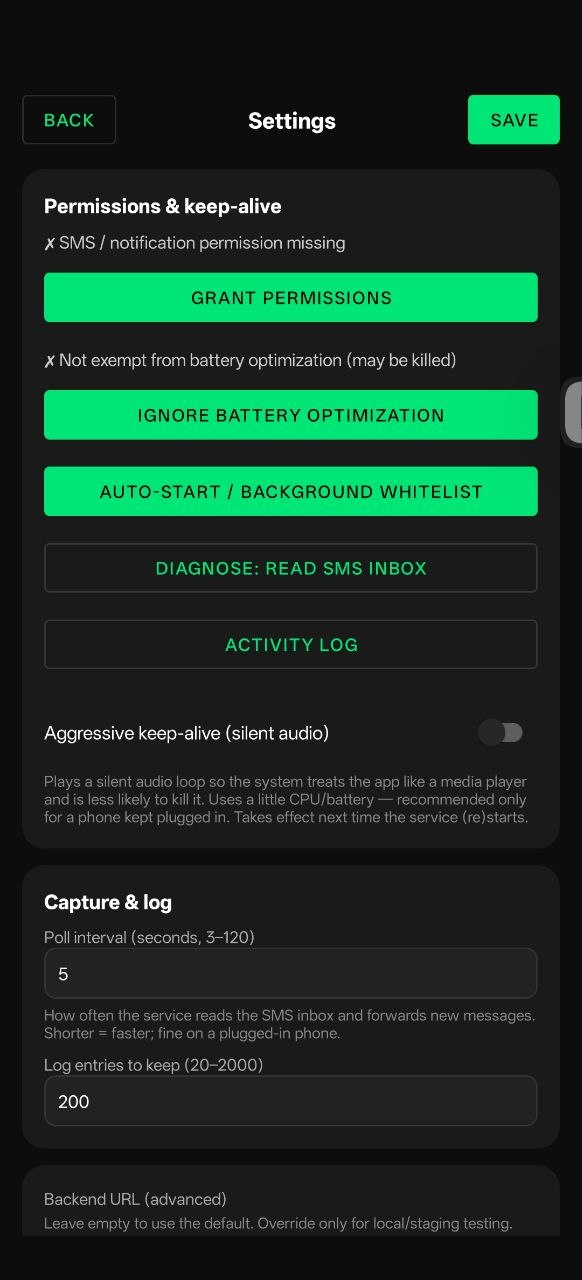
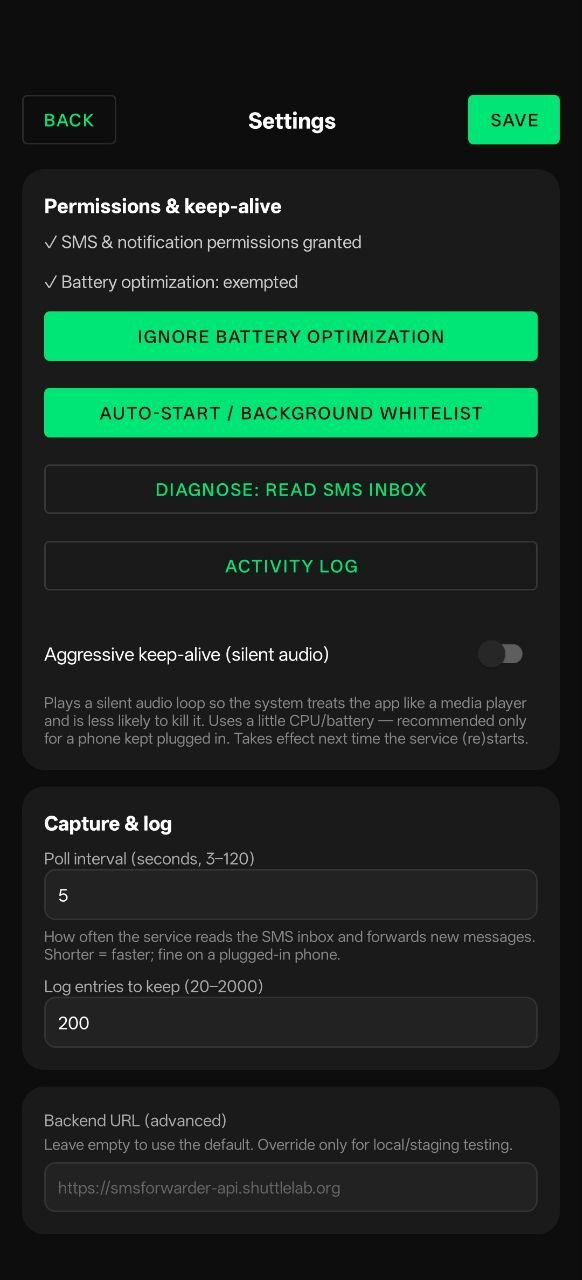
Reposition copy: ready-to-use, ShuttleLab-operated backend (drop self-hosting framing); wire hero screenshot

diff --git a/app/[locale]/forward-sms-to-telegram/page.tsx b/app/[locale]/forward-sms-to-telegram/page.tsx
@@ -43,9 +43,9 @@ type Content = {
 const EN: Content = {
   title: "Forward SMS to Telegram on Android — Receive Texts Remotely | SMS Forwarder",
   metaDesc:
-    "Automatically forward incoming SMS to your Telegram. SMS Forwarder is a free, self-hosted Android app — leave a phone plugged in at home and get verification codes and alerts anywhere.",
+    "Automatically forward incoming SMS to your Telegram. SMS Forwarder is a free, ready-to-use Android app — leave a phone plugged in at home and get verification codes and alerts anywhere.",
   h1: "Forward SMS to Telegram on Android: receive your texts anywhere",
-  lead: "SMS Forwarder is a free Android app that automatically forwards the text messages your phone receives to your Telegram. It uploads each SMS to your own self-hosted backend, which relays it to your Telegram and then forgets it. Leave a phone plugged in at home with your SIM, and every verification code, bank alert, or carrier message reaches you wherever you are — no roaming, no carrier forwarding fees.",
+  lead: "SMS Forwarder is a free Android app that automatically forwards the text messages your phone receives to your Telegram. It uploads each SMS to the SMS Forwarder service, which relays it to your Telegram and then forgets it — there's no server to set up, the app ships ready to connect. Leave a phone plugged in at home with your SIM, and every verification code, bank alert, or carrier message reaches you wherever you are — no roaming, no carrier forwarding fees.",
   whyH2: "Why forward SMS to Telegram?",
   whyParas: [
     "Plenty of accounts still send one-time codes and alerts by SMS to a specific number. If that SIM lives in a phone at home, in a second device, or on a number you keep for banking, you can't read those texts while you're out — and roaming or swapping SIMs is a hassle.",
@@ -53,22 +53,21 @@ const EN: Content = {
     "This is ideal for keeping an old number alive, receiving codes for a home-country SIM while abroad, or funneling a business/shared line's alerts to a place the whole team can see.",
   ],
   howH2: "How SMS Forwarder delivers your texts",
-  howIntro: "The app is a thin client — it captures SMS and hands them to your backend, which does the routing:",
+  howIntro: "The app is a thin client — it captures SMS and hands them to the SMS Forwarder backend, which does the routing:",
   howPoints: [
     "Capture — a broadcast receiver plus a foreground-service poll of the SMS inbox catch every new message, using a monotonic id cursor so nothing is skipped, even on ROMs that withhold SMS broadcasts.",
-    "Upload — each message is sent to your backend over HTTPS from the live foreground service (not a background scheduler the OS throttles), and retried until it succeeds.",
+    "Upload — each message is sent to the SMS Forwarder backend over HTTPS from the live foreground service (not a background scheduler the OS throttles), and retried until it succeeds.",
     "Relay — the backend delivers to your Telegram via a shared bot, then deletes the message body; a server-side idempotency key means a text is never delivered twice.",
   ],
-  boundaryH2: "Self-hosted and relay-and-forget",
+  boundaryH2: "Relay-and-forget",
   boundaryParas: [
-    "SMS Forwarder holds no Telegram tokens in the app and routes nothing through a cloud service of ours. You run the small companion backend yourself (a single Go binary plus SQLite); message bodies live there only until delivered, then they are deleted, leaving just a metadata log for you as the operator.",
-    "Signing in uses a per-device token you can revoke at any time, and your Telegram binding is tied to your account, so a message can only ever reach you. Because routing lives on the server, new channels can be added there without rebuilding or reinstalling the app.",
+    "SMS Forwarder holds no Telegram tokens in the app. The SMS Forwarder backend — operated by ShuttleLab — relays each message and then deletes the body; message bodies live there only until delivered, then they are deleted, leaving just a metadata log (result, time, sender).",
+    "Signing in uses a per-device token you can revoke at any time, and your Telegram binding is tied to your account, so a message can only ever reach you. Because routing lives on the server, new channels can be added there without rebuilding or reinstalling the app. Both the app and the backend are open source.",
   ],
   setupH2: "How to set up SMS forwarding to Telegram",
   setupSteps: [
-    { title: "Run the backend", desc: "Deploy the companion server (smsforwarder-api) — a single Go binary with SQLite — or point the app at a shared instance." },
     { title: "Install the app", desc: "Download the APK from GitHub and install it on the phone that holds the SIM (Android 8.0 / API 26 or later). On Huawei, disable Pure Mode first." },
-    { title: "Sign in & bind Telegram", desc: "Create an account, then tap Bind Telegram, open the bot, and press Start. Your chat is now linked — no tokens to copy." },
+    { title: "Sign in & bind Telegram", desc: "Create an account, then tap Bind Telegram, open the bot, and press Start. Your chat is now linked — no tokens to copy, and no server to configure." },
     { title: "Start the service & keep it alive", desc: "Grant SMS + notification permissions and tap Start. Allow battery-optimization exemption and auto-start so the OS keeps it running on a plugged-in phone." },
   ],
   signsH2: "What it handles for you",
@@ -79,10 +78,10 @@ const EN: Content = {
   ],
   faqH2: "Frequently asked questions",
   faqs: [
-    { q: "Does it need my own server?", a: "Yes — SMS Forwarder is a thin client and needs a backend to relay messages. You can self-host the companion server (a single Go binary + SQLite, no external dependencies) or connect to a shared instance. Self-hosting keeps the whole path under your control and retains no message bodies after delivery." },
+    { q: "Do I need to set up a server?", a: "No — the SMS Forwarder backend is already running, operated by ShuttleLab. Install the app, sign in, and bind Telegram; there is nothing to deploy and no token to paste. The app and backend are open source." },
     { q: "Which apps can it forward to?", a: "Telegram, via a shared bot. Because channel routing lives on the backend rather than in the app, more destinations can be added server-side without rebuilding the app. Binding Telegram is one tap — open the bot and press Start; no tokens to copy on the phone." },
     { q: "Will it keep working on a Huawei / HarmonyOS phone?", a: "Yes. On aggressive Chinese ROMs the system often withholds SMS broadcasts from third-party apps and throttles background work. SMS Forwarder captures with both a broadcast receiver and a foreground-service poll of the SMS inbox, and uploads directly from the live service. Add it to the auto-start whitelist and battery-optimization exemption for best results." },
-    { q: "Are my messages stored anywhere?", a: "The app reads incoming SMS only to forward them. On the backend it is relay-and-forget: a message body lives only until delivered, then it is deleted, leaving just a metadata log (result, time, sender). There are no ads, no analytics, and no tracking SDKs. If you self-host, no third party is ever in the loop." },
+    { q: "Are my messages stored anywhere?", a: "The app reads incoming SMS only to forward them. On the backend it is relay-and-forget: a message body lives only until delivered, then it is deleted, leaving just a metadata log (result, time, sender). The backend is operated by ShuttleLab and keeps no message bodies after delivery. There are no ads, no analytics, and no tracking SDKs." },
     { q: "Is it free? Where do I get it?", a: "SMS Forwarder is free, for personal use — no ads, no in-app purchases. Download the APK from GitHub and install it directly. The Android client and the backend server are separate repositories." },
   ],
   getH2: "Get SMS Forwarder",
@@ -94,9 +93,9 @@ const EN: Content = {
 const ZH: Content = {
   title: "安卓短信转发到 Telegram——随处接收短信 | 短信转发",
   metaDesc:
-    "自动把收到的短信转发到你的 Telegram。短信转发是一款免费、自建的安卓应用——把手机插电放家里，验证码和通知随时随地都能收到。",
+    "自动把收到的短信转发到你的 Telegram。短信转发是一款免费、开箱即用的安卓应用——把手机插电放家里，验证码和通知随时随地都能收到。",
   h1: "安卓短信转发到 Telegram：随处接收你的短信",
-  lead: "短信转发是一款免费的安卓应用，自动把手机收到的短信转发到你的 Telegram。它把每条短信上传到你自己的自建后端，由后端转发到 Telegram 后即删。把插着 SIM 卡的手机放家里插电常开，验证码、银行提醒、运营商短信就能随时随地找到你——不用漫游，也不用运营商的短信转移服务。",
+  lead: "短信转发是一款免费的安卓应用，自动把手机收到的短信转发到你的 Telegram。它把每条短信上传到短信转发服务，由服务转发到 Telegram 后即删——无需搭建服务器，App 出厂即可连接。把插着 SIM 卡的手机放家里插电常开，验证码、银行提醒、运营商短信就能随时随地找到你——不用漫游，也不用运营商的短信转移服务。",
   whyH2: "为什么要把短信转发到 Telegram？",
   whyParas: [
     "很多账户至今仍把一次性验证码和通知用短信发到某个特定号码。如果那张 SIM 在家里的手机、一台备用机、或你专门留着收银行短信的号码上，你人在外面就读不到——而漫游或换卡都很麻烦。",
@@ -104,22 +103,21 @@ const ZH: Content = {
     "这非常适合：让旧号码继续可用、人在国外仍收发往国内 SIM 的验证码、或把公司/共享号码的通知汇集到全team 都能看到的地方。",
   ],
   howH2: "短信转发如何送达你的短信",
-  howIntro: "App 是瘦客户端——它负责捕获短信、交给你的后端，由后端做路由：",
+  howIntro: "App 是瘦客户端——它负责捕获短信、交给短信转发后端，由后端做路由：",
   howPoints: [
     "捕获——短信广播接收器 + 前台服务轮询短信库双管齐下，用单调递增的 id 游标抓住每条新消息；即使在不下发短信广播的 ROM 上也不漏。",
-    "上传——每条消息由活着的前台服务经 HTTPS 发往你的后端（而非会被系统限流的后台调度），并一直重试到成功。",
+    "上传——每条消息由活着的前台服务经 HTTPS 发往短信转发后端（而非会被系统限流的后台调度），并一直重试到成功。",
     "转发——后端通过共享 Bot 投递到你的 Telegram，随后删除正文；服务端幂等键保证同一条短信绝不重复投递。",
   ],
-  boundaryH2: "自建 · 转发即焚",
+  boundaryH2: "转发即焚",
   boundaryParas: [
-    "短信转发在 App 内不保存任何 Telegram token，也不经由我们的云服务路由。小巧的配套后端（单个 Go 二进制 + SQLite）由你自己运行；正文只在投递完成前短暂驻留其中，投完即删，只给你（运营方）留一份元数据日志。",
-    "登录使用可随时吊销的按设备令牌，你的 Telegram 绑定与账号关联，因此消息只会发给你。由于路由在服务端，以后加新渠道可在那里完成，无需重新编译或重装 App。",
+    "短信转发在 App 内不保存任何 Telegram token。短信转发后端由 ShuttleLab 运营，负责转发每条消息、随后删除正文；正文只在投递完成前短暂驻留其中，投完即删，只留一份元数据日志（结果、时间、发件人）。",
+    "登录使用可随时吊销的按设备令牌，你的 Telegram 绑定与账号关联，因此消息只会发给你。由于路由在服务端，以后加新渠道可在那里完成，无需重新编译或重装 App。App 与后端均为开源。",
   ],
   setupH2: "如何设置短信转发到 Telegram",
   setupSteps: [
-    { title: "运行后端", desc: "部署配套服务器（smsforwarder-api）——单个 Go 二进制 + SQLite——或让 App 指向一个共享实例。" },
     { title: "安装 App", desc: "从 GitHub 下载 APK，装到插着 SIM 卡的那台手机上（Android 8.0 / API 26 及以上）。华为请先关闭「纯净模式」。" },
-    { title: "登录并绑定 Telegram", desc: "注册账号，然后点「绑定 Telegram」，打开 Bot 点 Start。会话即绑定——无需复制任何 token。" },
+    { title: "登录并绑定 Telegram", desc: "注册账号，然后点「绑定 Telegram」，打开 Bot 点 Start。会话即绑定——无需复制任何 token，也不用配置服务器。" },
     { title: "启动服务并保活", desc: "授予短信 + 通知权限并点「启动」。开启电池优化豁免与自启动，让系统在插电常开的手机上一直保持它运行。" },
   ],
   signsH2: "它帮你处理好的细节",
@@ -130,10 +128,10 @@ const ZH: Content = {
   ],
   faqH2: "常见问题",
   faqs: [
-    { q: "需要自己的服务器吗？", a: "需要——短信转发是瘦客户端，需要一个后端来中转消息。你可以自建配套服务器（单个 Go 二进制 + SQLite，无外部依赖），也可以连到共享实例。自建让整条链路都在你掌控之中，且投递后不保留任何正文。" },
+    { q: "需要自己搭建服务器吗？", a: "不需要——短信转发的后端已在运行、由 ShuttleLab 运营。装上 App、登录、绑定 Telegram 即可，无需部署任何东西、也不用粘贴 token。App 与后端均为开源。" },
     { q: "能转发到哪些 App？", a: "Telegram，通过一个共享 Bot。由于渠道路由在后端而非 App 里，以后要加更多目的地可以在服务端完成，无需重新编译 App。绑定 Telegram 只需一步——打开 Bot 点 Start，手机上不用复制任何 token。" },
     { q: "在华为 / HarmonyOS 上能一直用吗？", a: "能。国产严苛 ROM 常常不给第三方 App 下发短信广播、并限流后台任务。短信转发同时用广播接收器和前台服务轮询短信库来捕获，并直接从活着的前台服务上传。把它加入自启动白名单并豁免电池优化，效果最佳。" },
-    { q: "我的消息会被存起来吗？", a: "App 读取来信仅为转发。后端是「转发即焚」：正文只在投递完成前保留，之后即删，只留一份元数据日志（结果、时间、发件人）。没有广告、没有统计、没有追踪 SDK。若你自建，链路里不会有任何第三方。" },
+    { q: "我的消息会被存起来吗？", a: "App 读取来信仅为转发。后端是「转发即焚」：正文只在投递完成前保留，之后即删，只留一份元数据日志（结果、时间、发件人）。后端由 ShuttleLab 运营，投递后不保留任何正文。没有广告、没有统计、没有追踪 SDK。" },
     { q: "免费吗？在哪下载？", a: "短信转发免费、供个人使用——无广告、无内购。从 GitHub 下载 APK 直接安装即可。安卓客户端与后端服务器是两个独立的仓库。" },
   ],
   getH2: "获取短信转发",

diff --git a/components/seo-faq.tsx b/components/seo-faq.tsx
@@ -33,7 +33,7 @@ export const COMPARISON = {
     heading: "SMS Forwarder vs. other ways to get your texts remotely",
     columns: ["", "SMS Forwarder", "Carrier SMS forwarding", "Cloud SMS-forward apps"],
     rows: [
-      ["Self-hosted — you run the server", "✓", "— (carrier)", "— (their cloud)"],
+      ["Open source (app + backend)", "✓", "n/a", "usually closed"],
       ["Message bodies not retained (relay-and-forget)", "✓", "n/a", "often stored"],
       ["No channel tokens stored in the app", "✓", "n/a", "varies"],
       ["Delivers to Telegram", "✓", "— (only another number)", "✓"],
@@ -46,7 +46,7 @@ export const COMPARISON = {
     heading: "短信转发 与其它「远程收短信」方式的对比",
     columns: ["", "短信转发", "运营商短信转移", "云端转发类 App"],
     rows: [
-      ["自建——服务器你自己跑", "✓", "—（运营商）", "—（对方云端）"],
+      ["开源（App + 后端）", "✓", "不适用", "通常闭源"],
       ["正文不保留（转发即焚）", "✓", "不适用", "常常会存"],
       ["App 内不保存渠道 token", "✓", "不适用", "视产品而定"],
       ["投递到 Telegram", "✓", "—（只能转到另一个号码）", "✓"],
@@ -61,15 +61,15 @@ export const FAQS: { q: Bi; a: Bi }[] = [
   {
     q: { en: "What is SMS Forwarder?", zh: "短信转发是什么？" },
     a: {
-      en: "SMS Forwarder is a free Android app that captures the text messages your phone receives and forwards them to your Telegram. It is a thin client: it uploads each SMS to a small self-hosted backend, which relays it to your channel and then deletes the body. It is built for a phone left plugged in at home so your SMS — verification codes, bank and carrier alerts — reach you anywhere. Requires Android 8.0 (API 26) or later.",
-      zh: "短信转发是一款免费的安卓应用，捕获手机收到的短信并转发到你的 Telegram。它是瘦客户端：把每条短信上传到一个小巧的自建后端，由后端转发到你的渠道后再删除正文。它专为「插电放在家里的手机」设计，让验证码、银行与运营商通知等短信随时随地都能找到你。需要 Android 8.0（API 26）及以上。",
+      en: "SMS Forwarder is a free Android app that captures the text messages your phone receives and forwards them to your Telegram. It is a thin client: it uploads each SMS to the SMS Forwarder backend, which relays it to your Telegram and then deletes the body. It ships ready to use — no server to set up. It is built for a phone left plugged in at home so your SMS — verification codes, bank and carrier alerts — reach you anywhere. Requires Android 8.0 (API 26) or later.",
+      zh: "短信转发是一款免费的安卓应用，捕获手机收到的短信并转发到你的 Telegram。它是瘦客户端：把每条短信上传到短信转发后端，由后端转发到你的 Telegram 后再删除正文。开箱即用——无需搭建服务器。它专为「插电放在家里的手机」设计，让验证码、银行与运营商通知等短信随时随地都能找到你。需要 Android 8.0（API 26）及以上。",
     },
   },
   {
-    q: { en: "Do I need my own server?", zh: "需要自己的服务器吗？" },
+    q: { en: "Do I need to set up a server?", zh: "需要自己搭建服务器吗？" },
     a: {
-      en: "SMS Forwarder needs a backend to relay messages. You can self-host the companion server (a single Go binary + SQLite, no external services) or connect to a shared instance. Self-hosting means the entire path — capture, upload, and delivery to Telegram — is under your control, and message bodies are never retained after delivery.",
-      zh: "短信转发需要一个后端来中转消息。你可以自建配套服务器（单个 Go 二进制 + SQLite，无外部依赖），也可以连到共享实例。自建意味着整条链路——捕获、上传、投递到 Telegram——都在你掌控之中，且正文在投递后绝不保留。",
+      en: "No. The SMS Forwarder backend is already running and operated by ShuttleLab — just install the app, sign in, and bind Telegram. There is nothing to deploy and no token to paste. Both the app and the backend are open source, so you can inspect the code.",
+      zh: "不需要。短信转发的后端已经在运行、由 ShuttleLab 运营——你只要装上 App、登录、绑定 Telegram 即可，无需部署任何东西、也不用粘贴 token。App 与后端均为开源，源码公开可查。",
     },
   },
   {
@@ -89,8 +89,8 @@ export const FAQS: { q: Bi; a: Bi }[] = [
   {
     q: { en: "Are my SMS private? Are they stored anywhere?", zh: "短信隐私如何？会被存起来吗？" },
     a: {
-      en: "The app reads incoming SMS only to forward them; it uploads nothing else. On the backend it is relay-and-forget: a message body lives only until it is delivered, then it is deleted, leaving just a metadata log (result, time, sender) for the operator. There are no ads, no analytics, and no tracking SDKs. If you self-host, no third party is ever in the loop.",
-      zh: "App 读取来信仅为转发，不上传其它任何内容。后端是「转发即焚」：正文只在投递完成前短暂保留，之后即删，只留一份元数据日志（结果、时间、发件人）供运营方查看。没有广告、没有统计、没有追踪 SDK。若你自建，链路里不会有任何第三方。",
+      en: "The app reads incoming SMS only to forward them; it uploads nothing else. The backend is relay-and-forget: a message body lives only until it is delivered to your Telegram, then it is deleted, leaving just a metadata log (result, time, sender). The backend is operated by ShuttleLab and keeps no message bodies after delivery. There are no ads, no analytics, and no tracking SDKs.",
+      zh: "App 读取来信仅为转发，不上传其它任何内容。后端是「转发即焚」：正文只在投递到你的 Telegram 之前短暂保留，之后即删，只留一份元数据日志（结果、时间、发件人）。后端由 ShuttleLab 运营，投递后不保留任何正文。没有广告、没有统计、没有追踪 SDK。",
     },
   },
   {
@@ -110,8 +110,8 @@ export const FAQS: { q: Bi; a: Bi }[] = [
   {
     q: { en: "How is it different from carrier SMS forwarding or a cloud app?", zh: "和运营商短信转移或云端转发 App 有何不同？" },
     a: {
-      en: "Carrier forwarding (if offered) only re-sends to another phone number and may cost per message; a cloud SMS-forward app routes your texts through someone else's server and often stores them. SMS Forwarder is self-hosted and relay-and-forget: it delivers straight to Telegram, keeps no message bodies after delivery, holds no channel tokens in the app, and is engineered to keep running on aggressive Android ROMs.",
-      zh: "运营商转移（若提供）只能转到另一个手机号，且可能按条收费；云端转发 App 会把你的短信经由别人的服务器路由、还常常存起来。短信转发是自建 + 转发即焚：直接投递到 Telegram，投完不留正文，App 内不存渠道 token，并且专门针对国产严苛 ROM 做了保活。",
+      en: "Carrier forwarding (if offered) only re-sends to another phone number and may cost per message; a cloud SMS-forward app routes your texts through someone else's server and often stores them. SMS Forwarder is relay-and-forget and open source: it delivers straight to Telegram, keeps no message bodies after delivery, holds no channel tokens in the app, and is engineered to keep running on aggressive Android ROMs.",
+      zh: "运营商转移（若提供）只能转到另一个手机号，且可能按条收费；云端转发 App 会把你的短信经由别人的服务器路由、还常常存起来。短信转发是转发即焚 + 开源：直接投递到 Telegram，投完不留正文，App 内不存渠道 token，并且专门针对国产严苛 ROM 做了保活。",
     },
   },
 ];

diff --git a/app/layout.tsx b/app/layout.tsx
@@ -25,7 +25,7 @@ const structuredData = {
   applicationCategory: "UtilitiesApplication",
   applicationSubCategory: "SMS Forwarding",
   operatingSystem: "Android 8.0+",
-  description: "Free Android app that forwards incoming SMS to your Telegram through your own self-hosted backend. A thin, relay-and-forget client built to keep working on aggressive Chinese ROMs (Huawei / HarmonyOS) — ideal for a phone left plugged in at home.",
+  description: "Free Android app that forwards incoming SMS to your Telegram. A thin, relay-and-forget client built to keep working on aggressive Chinese ROMs (Huawei / HarmonyOS) — ideal for a phone left plugged in at home. Ready to use: sign in and go, no server to set up.",
   url: "https://smsforwarder.shuttlelab.org",
   downloadUrl: "https://github.com/ShuttleLab/SMSForwarder/releases/latest",
   softwareHelp: "https://smsforwarder.shuttlelab.org/",
@@ -37,7 +37,7 @@ const structuredData = {
   featureList: [
     "Real-time SMS capture (broadcast receiver + foreground-service inbox poll)",
     "Forwards to Telegram via a shared bot (one-tap bind)",
-    "Self-hosted backend — channel routing lives on the server",
+    "Ready-to-use backend — channel routing lives on the server, no setup",
     "Reliable delivery with retry and server-side idempotency (no duplicates)",
     "Long-term survival on plugged-in / aggressive-ROM phones",
     "Bilingual (English / 中文), relay-and-forget privacy",
@@ -60,7 +60,7 @@ const structuredData = {
   offers: [{ "@type": "Offer", price: "0", priceCurrency: "USD" }],
 };
 
-const DESC = "Free Android app that forwards the SMS your phone receives to your Telegram, through your own self-hosted backend. A thin, relay-and-forget client engineered to keep running on aggressive Chinese ROMs — ideal for a phone left plugged in at home.";
+const DESC = "Free Android app that forwards the SMS your phone receives to your Telegram. A thin, relay-and-forget client engineered to keep running on aggressive Chinese ROMs — ideal for a phone left plugged in at home. Ready to use, no server setup.";
 
 export const metadata: Metadata = {
   metadataBase: new URL("https://smsforwarder.shuttlelab.org"),

diff --git a/app/[locale]/page.tsx b/app/[locale]/page.tsx
@@ -136,7 +136,7 @@ export default async function HomePage({ params }: Props) {
             <p className="mt-3 text-xs text-muted-foreground">{t("requiresAndroid")}</p>
             {!PLAY_AVAILABLE && <p className="mt-1 text-xs text-muted-foreground/70">{t("playComingSoon")}</p>}
           </div>
-          <PhoneFrame label={t("screenshotPlaceholder")} className="mx-auto w-[300px] sm:w-[360px] lg:w-[440px] max-w-full" />
+          <PhoneFrame src="/screenshots/hero.jpg" label={t("screenshotPlaceholder")} className="mx-auto w-[300px] sm:w-[360px] lg:w-[440px] max-w-full" />
         </div>
       </section>
 

diff --git a/app/manifest.ts b/app/manifest.ts
@@ -6,7 +6,7 @@ export default function manifest(): MetadataRoute.Manifest {
   return {
     name: "SMS Forwarder — Forward incoming SMS to Telegram (Android)",
     short_name: "SMS Forwarder",
-    description: "Automatically forward the SMS your Android phone receives to your Telegram, through your own self-hosted backend. Relay-and-forget, works on aggressive ROMs.",
+    description: "Automatically forward the SMS your Android phone receives to your Telegram. Ready to use, relay-and-forget, works on aggressive ROMs.",
     start_url: "/",
     display: "standalone",
     background_color: "#f5f3ff",
